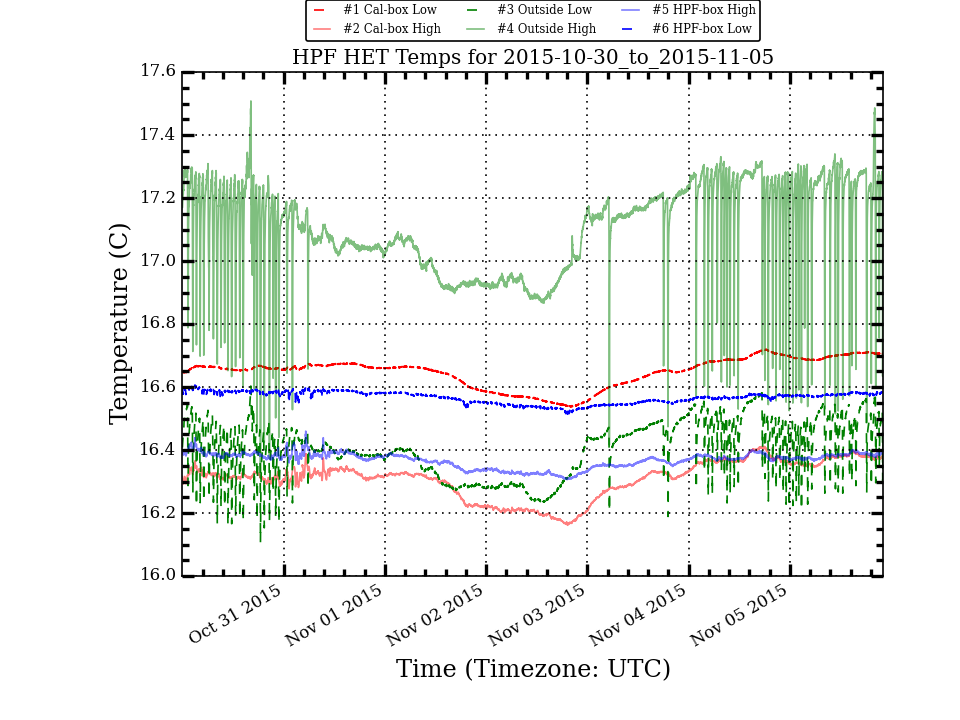
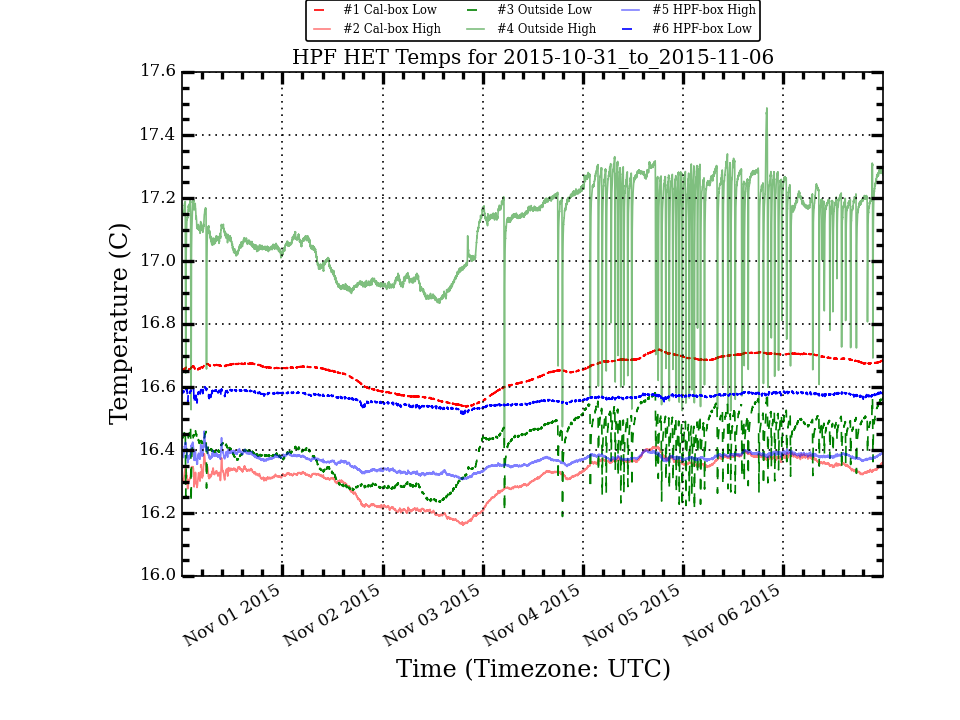
Update HPF Temp Plots

diff --git a/research/hpf_temps/plots/LakeShoreLogTotal_month_stats.html b/research/hpf_temps/plots/LakeShoreLogTotal_month_stats.html
@@ -10,56 +10,56 @@
  </TR>
  <TR>
   <TD>Cal_Low</TD>
-  <TD>16.834</TD>
-  <TD>0.354</TD>
-  <TD>16.701</TD>
+  <TD>16.852</TD>
+  <TD>0.331</TD>
+  <TD>16.703</TD>
   <TD>17.851</TD>
-  <TD>16.109</TD>
-  <TD>1.742</TD>
+  <TD>16.275</TD>
+  <TD>1.576</TD>
  </TR>
  <TR>
   <TD>Cal_High</TD>
-  <TD>16.527</TD>
-  <TD>0.411</TD>
-  <TD>16.369</TD>
+  <TD>16.546</TD>
+  <TD>0.388</TD>
+  <TD>16.371</TD>
   <TD>17.779</TD>
-  <TD>15.672</TD>
-  <TD>2.107</TD>
+  <TD>15.977</TD>
+  <TD>1.802</TD>
  </TR>
  <TR>
   <TD>Out_Low</TD>
-  <TD>16.647</TD>
-  <TD>0.449</TD>
-  <TD>16.490</TD>
+  <TD>16.664</TD>
+  <TD>0.428</TD>
+  <TD>16.492</TD>
   <TD>18.252</TD>
-  <TD>15.431</TD>
-  <TD>2.821</TD>
+  <TD>16.106</TD>
+  <TD>2.146</TD>
  </TR>
  <TR>
   <TD>Out_High</TD>
-  <TD>17.394</TD>
-  <TD>0.543</TD>
-  <TD>17.249</TD>
+  <TD>17.413</TD>
+  <TD>0.516</TD>
+  <TD>17.251</TD>
   <TD>19.251</TD>
-  <TD>15.172</TD>
-  <TD>4.079</TD>
+  <TD>16.311</TD>
+  <TD>2.940</TD>
  </TR>
  <TR>
   <TD>HPF_High</TD>
-  <TD>16.470</TD>
-  <TD>0.186</TD>
+  <TD>16.480</TD>
+  <TD>0.171</TD>
   <TD>16.429</TD>
   <TD>17.029</TD>
-  <TD>16.019</TD>
-  <TD>1.010</TD>
+  <TD>16.136</TD>
+  <TD>0.893</TD>
  </TR>
  <TR>
   <TD>HPF_Low</TD>
-  <TD>16.653</TD>
-  <TD>0.167</TD>
-  <TD>16.625</TD>
+  <TD>16.663</TD>
+  <TD>0.153</TD>
+  <TD>16.624</TD>
   <TD>17.107</TD>
-  <TD>16.213</TD>
-  <TD>0.894</TD>
+  <TD>16.303</TD>
+  <TD>0.804</TD>
  </TR>
 </TABLE>

diff --git a/research/hpf_temps/plots/LakeShoreLogTotal_week_stats.html b/research/hpf_temps/plots/LakeShoreLogTotal_week_stats.html
@@ -10,56 +10,56 @@
  </TR>
  <TR>
   <TD>Cal_Low</TD>
-  <TD>16.648</TD>
-  <TD>0.047</TD>
-  <TD>16.660</TD>
+  <TD>16.653</TD>
+  <TD>0.049</TD>
+  <TD>16.667</TD>
   <TD>16.719</TD>
   <TD>16.537</TD>
   <TD>0.182</TD>
  </TR>
  <TR>
   <TD>Cal_High</TD>
-  <TD>16.309</TD>
-  <TD>0.059</TD>
-  <TD>16.320</TD>
+  <TD>16.315</TD>
+  <TD>0.062</TD>
+  <TD>16.329</TD>
   <TD>16.411</TD>
   <TD>16.161</TD>
   <TD>0.250</TD>
  </TR>
  <TR>
   <TD>Out_Low</TD>
-  <TD>16.405</TD>
-  <TD>0.088</TD>
-  <TD>16.411</TD>
-  <TD>16.603</TD>
-  <TD>16.106</TD>
-  <TD>0.497</TD>
+  <TD>16.415</TD>
+  <TD>0.086</TD>
+  <TD>16.433</TD>
+  <TD>16.582</TD>
+  <TD>16.189</TD>
+  <TD>0.393</TD>
  </TR>
  <TR>
   <TD>Out_High</TD>
-  <TD>17.094</TD>
-  <TD>0.151</TD>
-  <TD>17.112</TD>
-  <TD>17.508</TD>
-  <TD>16.311</TD>
-  <TD>1.197</TD>
+  <TD>17.101</TD>
+  <TD>0.141</TD>
+  <TD>17.136</TD>
+  <TD>17.486</TD>
+  <TD>16.416</TD>
+  <TD>1.070</TD>
  </TR>
  <TR>
   <TD>HPF_High</TD>
-  <TD>16.368</TD>
-  <TD>0.024</TD>
-  <TD>16.374</TD>
+  <TD>16.367</TD>
+  <TD>0.023</TD>
+  <TD>16.373</TD>
   <TD>16.460</TD>
   <TD>16.306</TD>
   <TD>0.154</TD>
  </TR>
  <TR>
   <TD>HPF_Low</TD>
-  <TD>16.567</TD>
-  <TD>0.019</TD>
+  <TD>16.566</TD>
+  <TD>0.017</TD>
   <TD>16.571</TD>
-  <TD>16.606</TD>
+  <TD>16.602</TD>
   <TD>16.514</TD>
-  <TD>0.092</TD>
+  <TD>0.088</TD>
  </TR>
 </TABLE>
